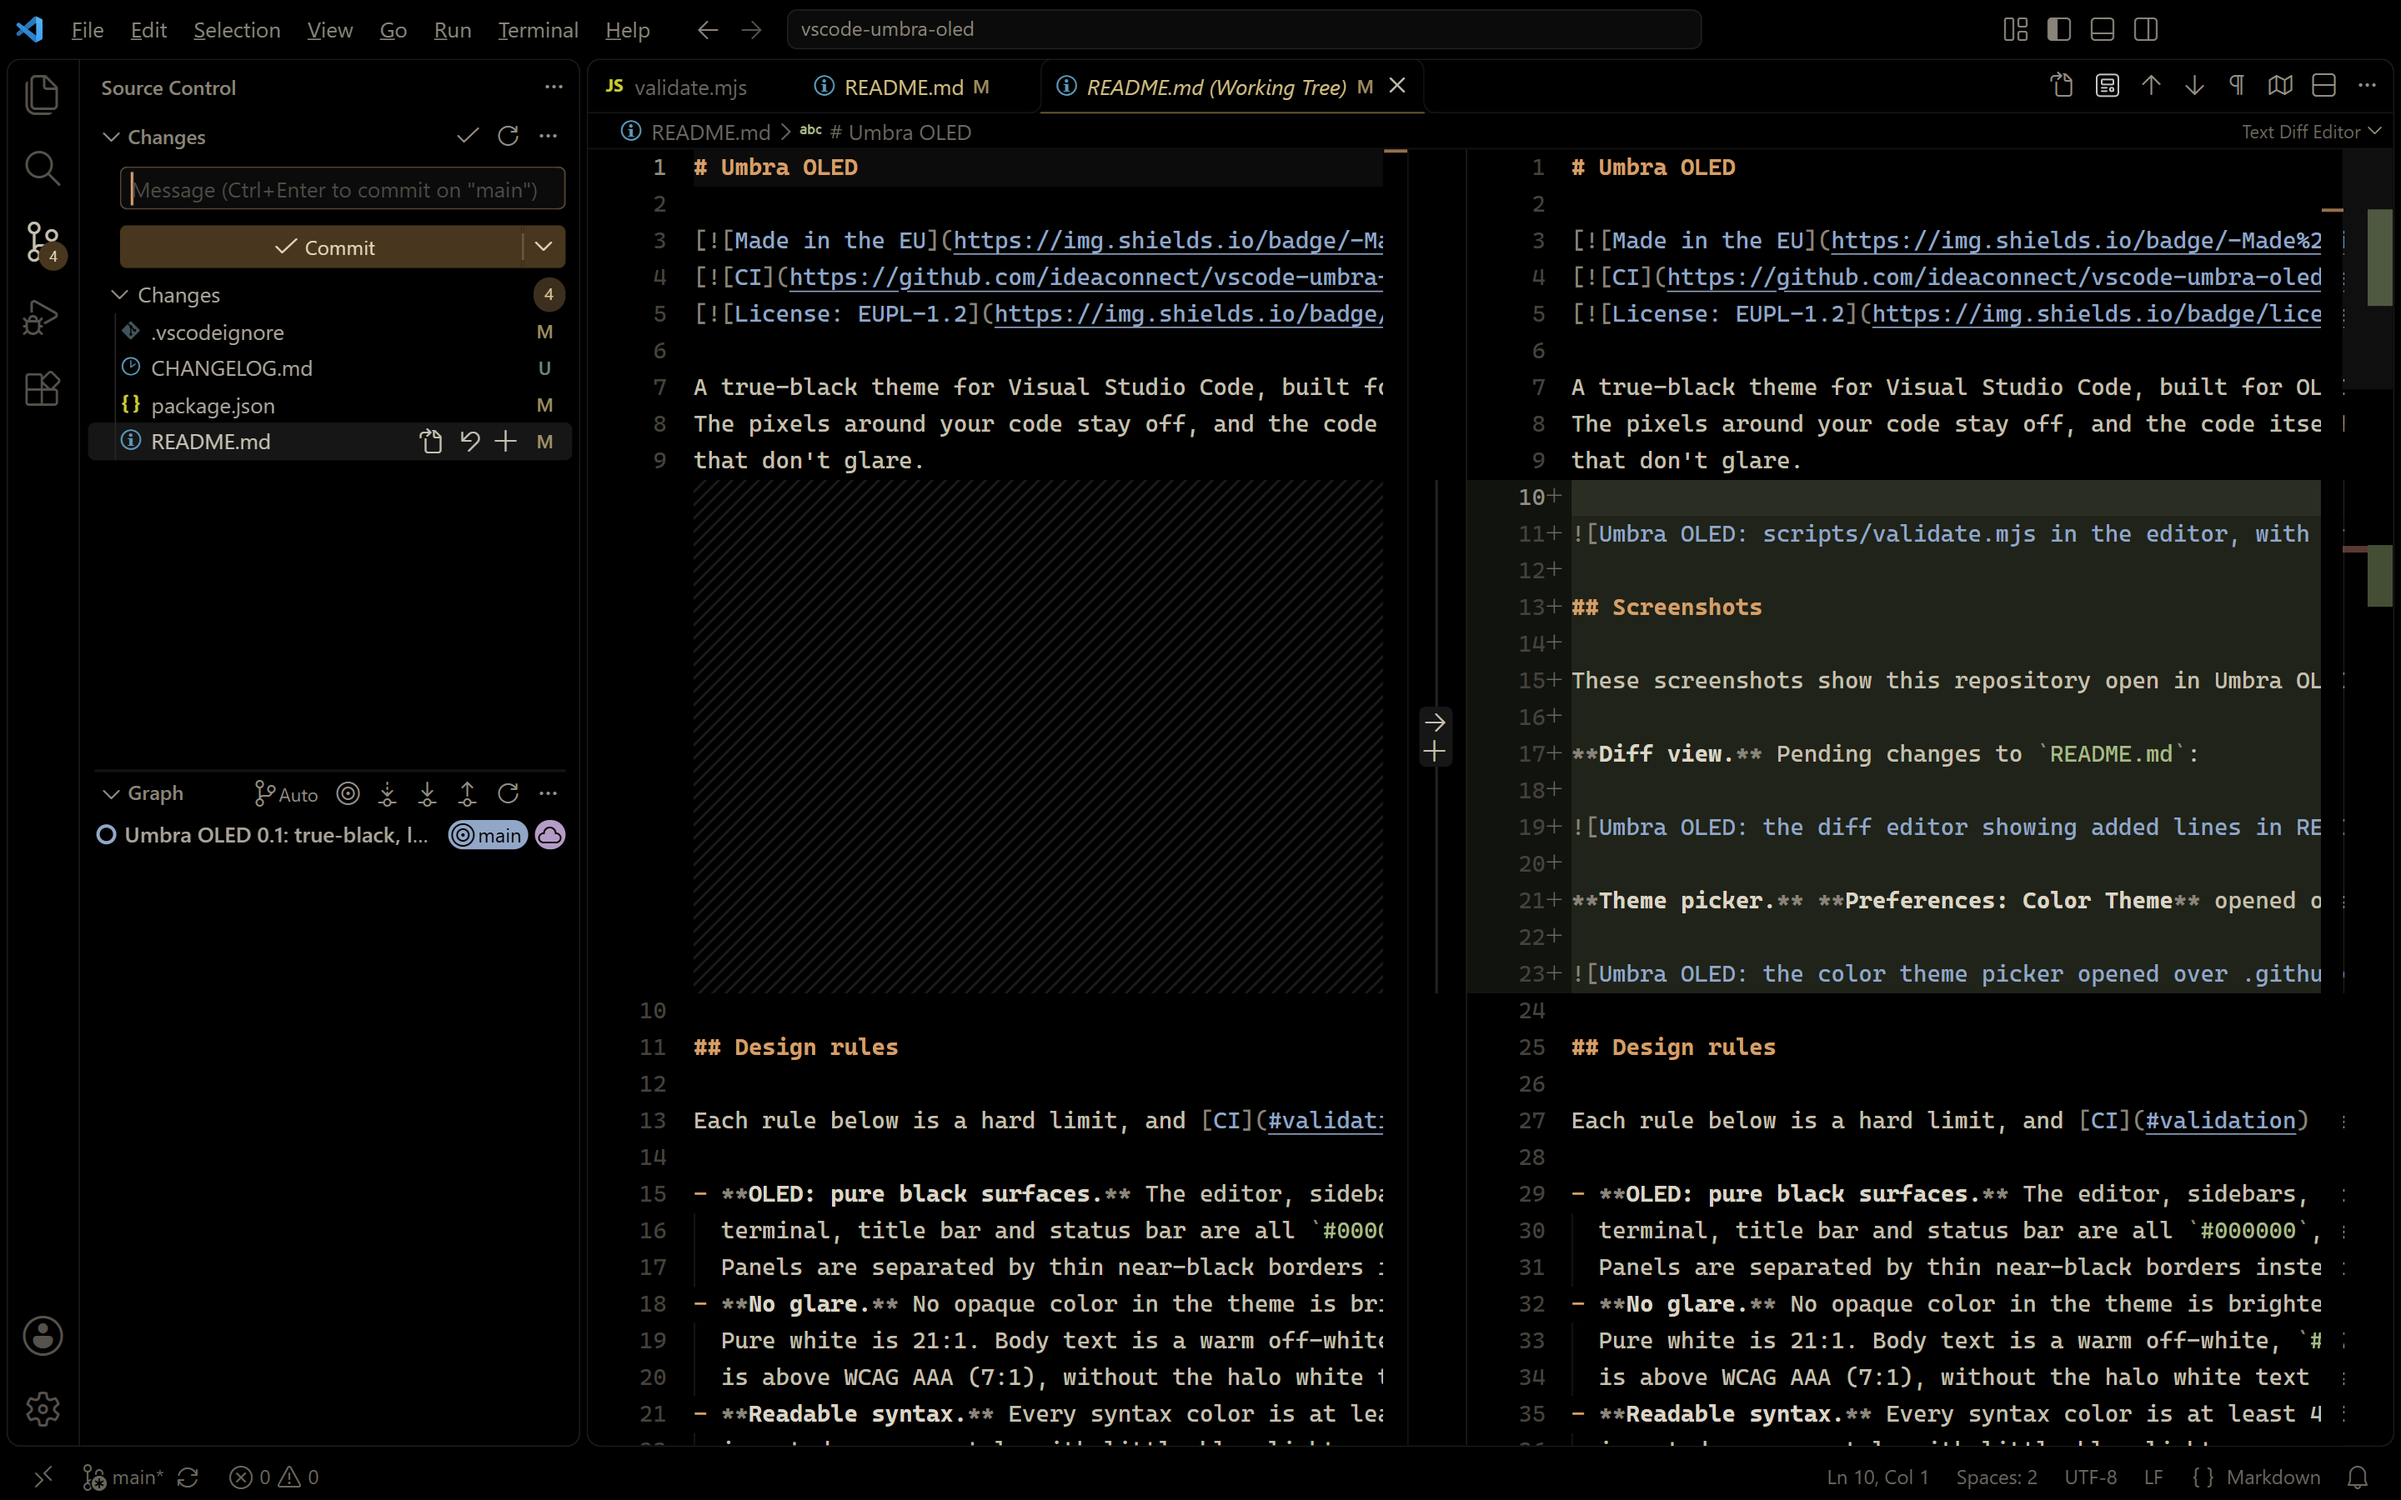
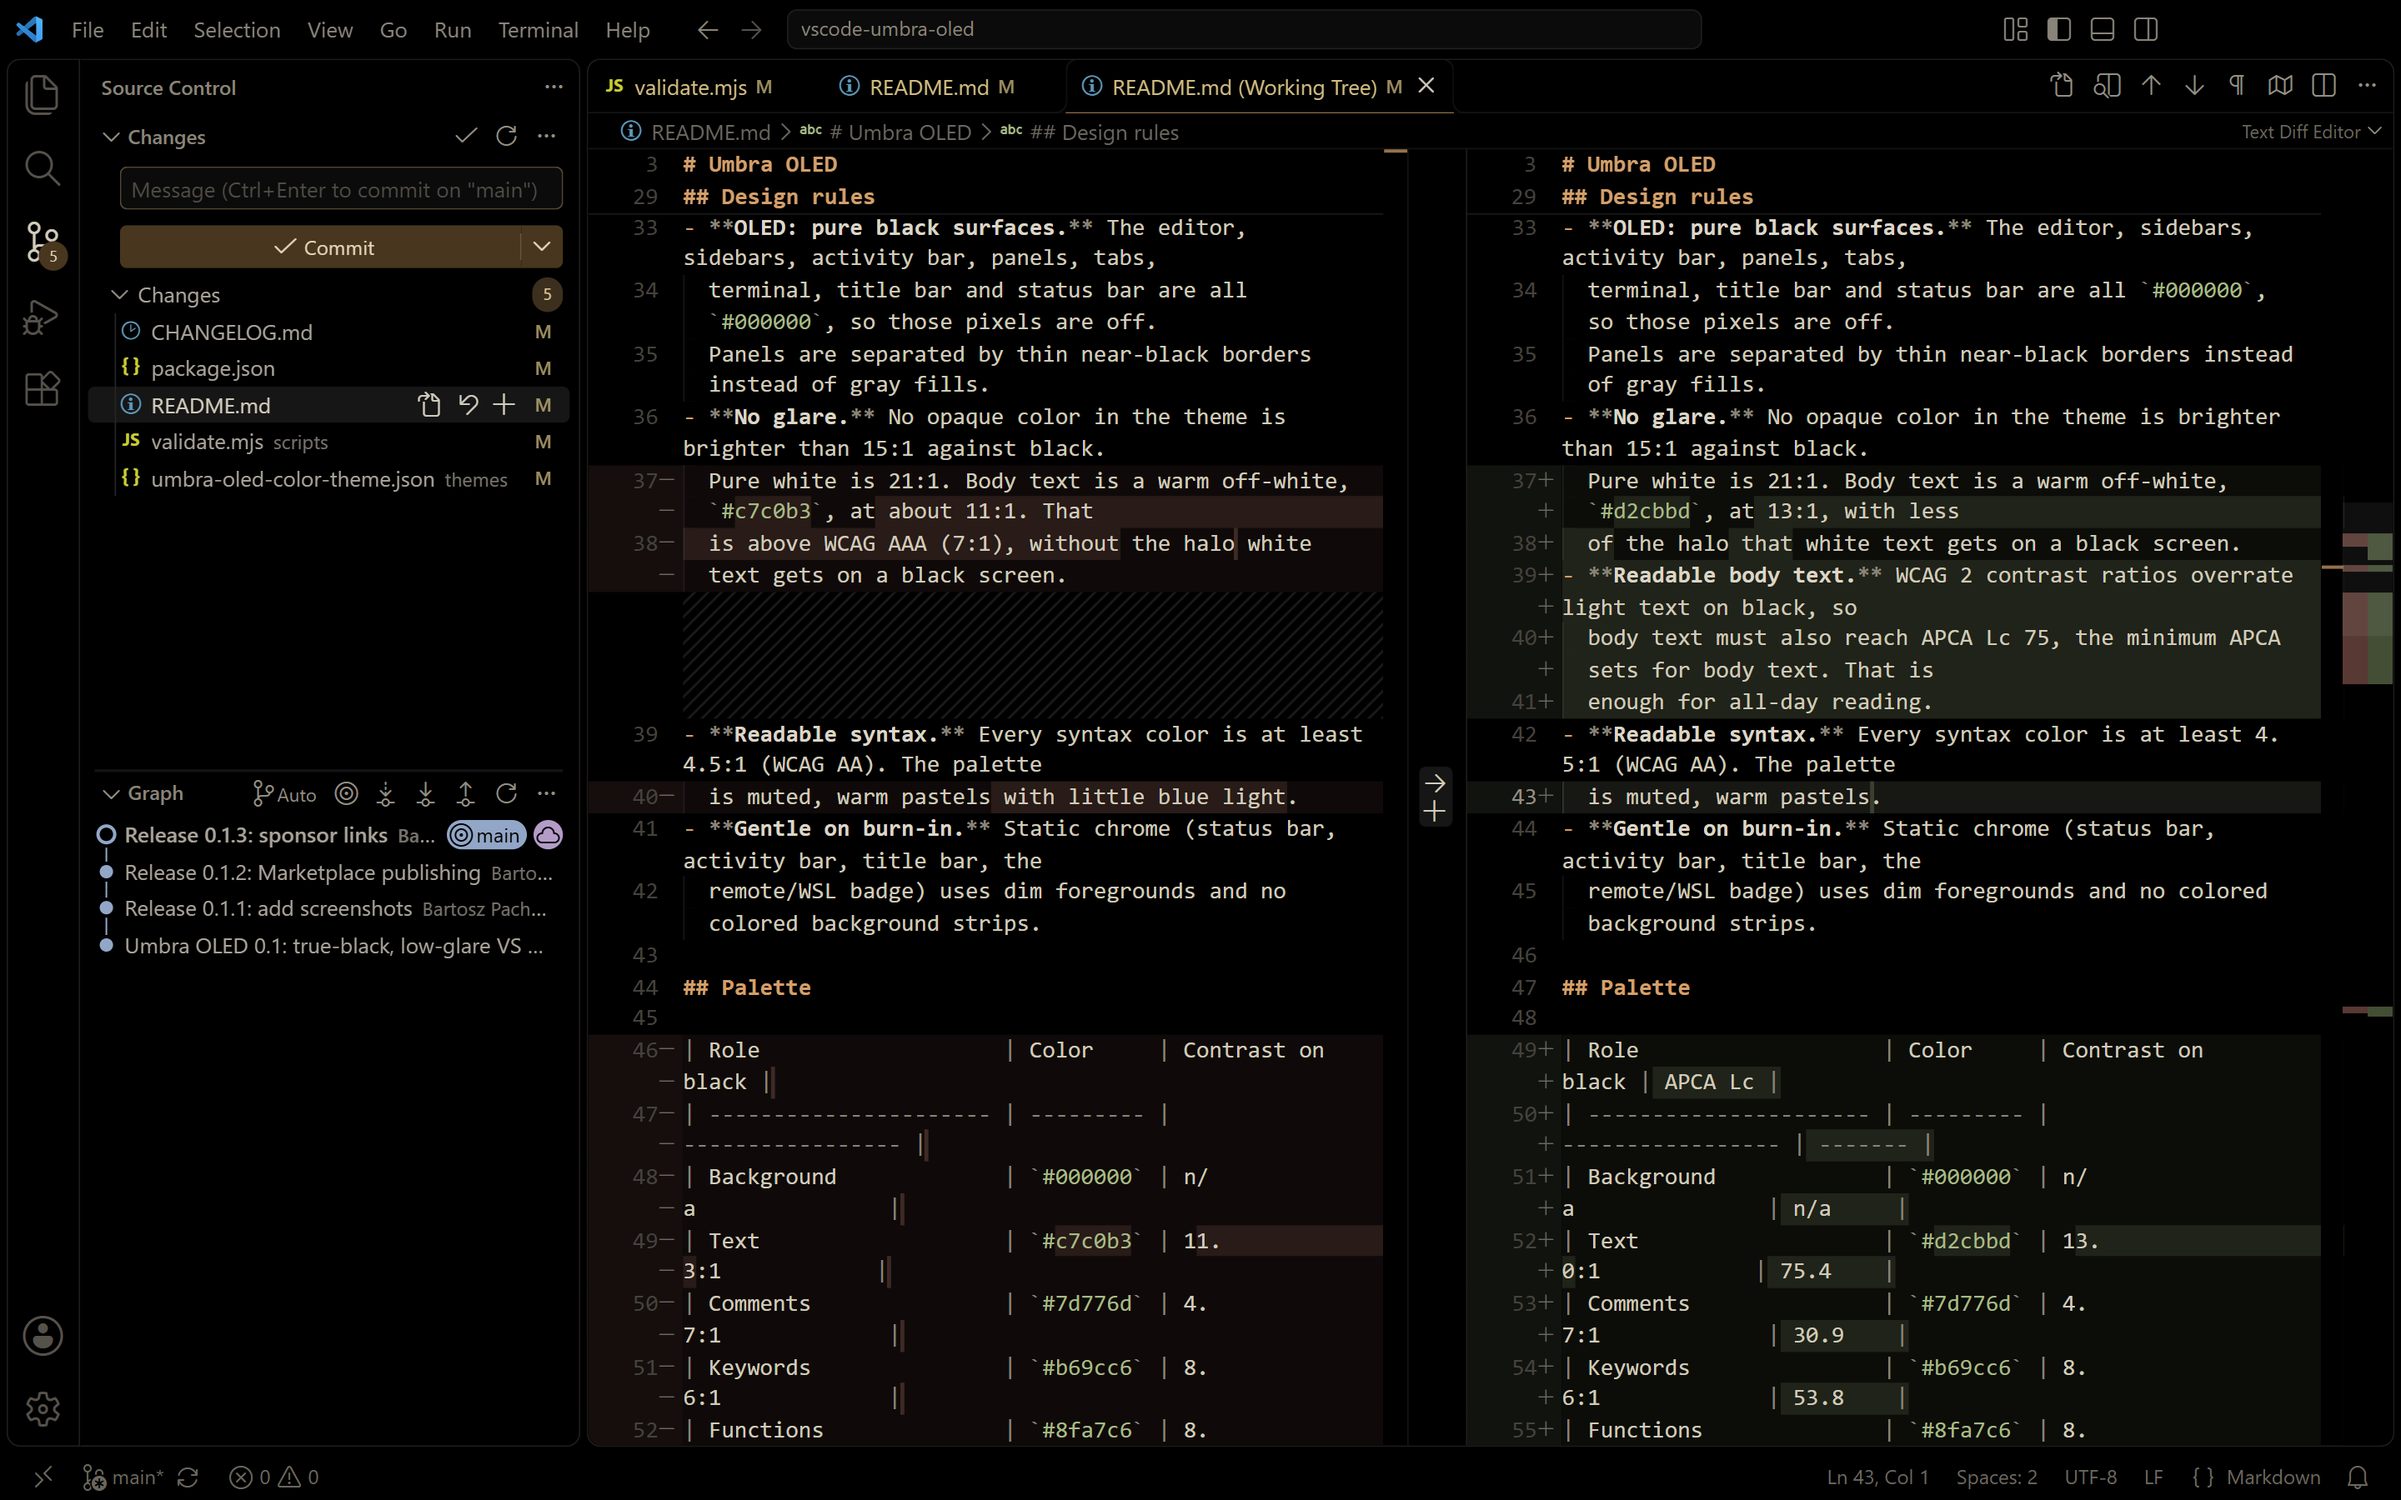
README: retake screenshots with 0.2.0
- Retook editor.png, diff.png and picker.png in an isolated VS Code
  1.146.0 with only Umbra OLED 0.2.0 installed (the CI-built .vsix),
  at 1440x900 and 2x, so they show the brighter #d2cbbd body text.
- The diff screenshot now shows the 0.2.0 changes to README.md, and the
  captions name the version instead of "this release".

diff --git a/README.md b/README.md
@@ -16,11 +16,11 @@ that don't glare.
 
 ## Screenshots
 
-These screenshots show this repository open in Umbra OLED.
+These screenshots show this repository open in Umbra OLED 0.2.0.
 
-**Source Control and diff view.** The changes for this release, before they were committed:
+**Source Control and diff view.** The 0.2.0 changes, before they were committed:
 
-![Umbra OLED: the diff editor showing added lines in README.md](screenshots/diff.png)
+![Umbra OLED: the diff editor showing the 0.2.0 changes to README.md, including the new body text color](screenshots/diff.png)
 
 **Theme picker.** **Preferences: Color Theme** opened over the CI workflow:
 
